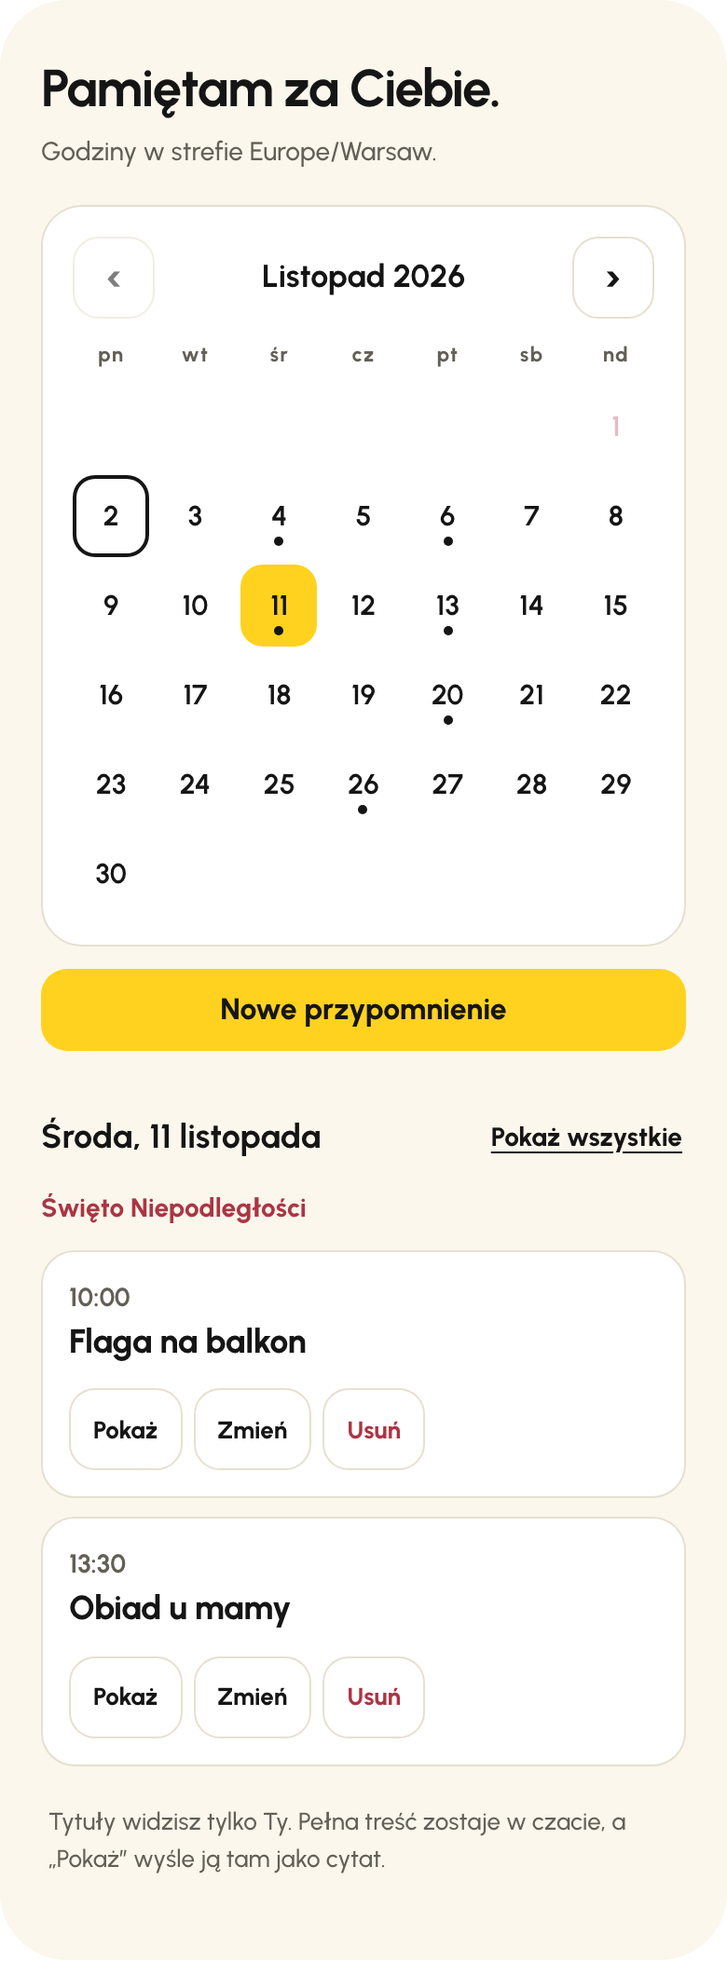
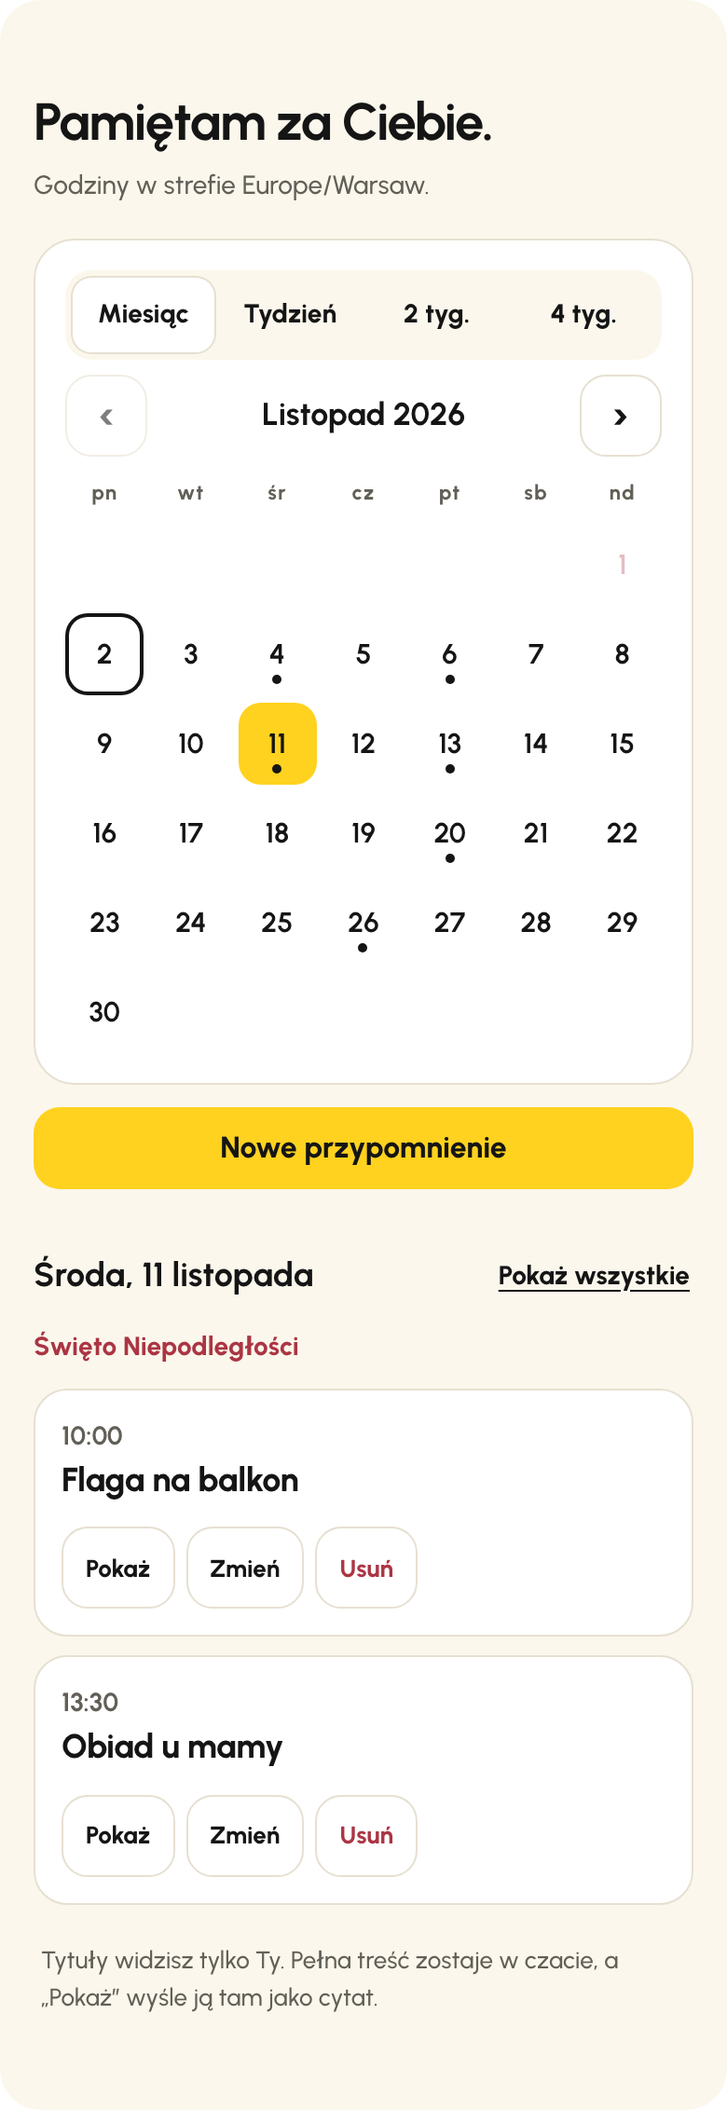
Add week and multi-week views to the calendar panel
The calendar panel now supports viewing reminders in weekly formats: 1, 2, or 4 weeks displayed vertically with corresponding reminder times and titles. The selected view is saved in local storage. Updates to the README and changelog reflect these new features, enhancing user experience by allowing easier navigation of reminders.

diff --git a/public/panel/panel.js b/public/panel/panel.js
@@ -7,6 +7,11 @@ let settingsDirty = false;
 /** Kalendarz: oglądany miesiąc („RRRR-MM”) i wybrany dzień („RRRR-MM-DD”) w strefie konta. */
 let month;
 let selectedDay = null;
+/** Widok kalendarza: 0 to siatka miesiąca, 1, 2 albo 4 to tyle tygodni z dniami pod sobą od poniedziałku „week”. Wybór pamięta to urządzenie. */
+let weeks = 0;
+let week;
+try { weeks = Number(localStorage.getItem("otto-calendar-weeks")) || 0; } catch { /* brak pamięci przeglądarki */ }
+if (![0, 1, 2, 4].includes(weeks)) weeks = 0;
 let currentView = "tasks";
 const DAY_MS = 86_400_000;
 // Natywny przycisk Telegrama i strzałka wstecz zastępują przyciski na stronie, gdy klient je ma.
@@ -104,6 +109,9 @@ const pad = (value) => String(value).padStart(2, "0");
 const capitalize = (text) => text.charAt(0).toUpperCase() + text.slice(1);
 const utcDay = (key) => { const [y, m, d] = key.split("-").map(Number); return Date.UTC(y, m - 1, d); };
 const addDays = (key, days) => new Date(utcDay(key) + days * DAY_MS).toISOString().slice(0, 10);
+const weekday = (key) => (new Date(utcDay(key)).getUTCDay() + 6) % 7;
+const monday = (key) => addDays(key, -weekday(key));
+const WEEKDAYS = ["pn", "wt", "śr", "cz", "pt", "sb", "nd"];
 // Daty kalendarza to dni w strefie konta, więc formatujemy je jako UTC: bez przesunięć strefy przeglądarki.
 const dayFormat = (options) => new Intl.DateTimeFormat("pl-PL", { ...options, timeZone: "UTC" });
 const today = () => localValue(Date.now(), state.tz).slice(0, 10);
@@ -135,41 +143,98 @@ function presetValue(preset) {
   return `${addDays(day, 7)}T${time}`;
 }
 
+/** „19–25 października” albo „26 paź–22 lis”, z rokiem, gdy zakres sięga innego roku. */
+function rangeLabel(from, to) {
+  const format = dayFormat({ day: "numeric", month: from.slice(0, 7) === to.slice(0, 7) ? "long" : "short", ...(to.slice(0, 4) !== today().slice(0, 4) ? { year: "numeric" } : {}) });
+  return format.formatRange ? format.formatRange(utcDay(from), utcDay(to)) : `${format.format(utcDay(from))} – ${format.format(utcDay(to))}`;
+}
+
 function renderCalendar() {
   const now = Date.now();
   const first = today();
   const limit = localValue(now + 400 * DAY_MS, state.tz).slice(0, 10);
-  if (!month || month < first.slice(0, 7)) month = first.slice(0, 7);
-  if (month > limit.slice(0, 7)) month = limit.slice(0, 7);
   const holidays = new Map(state.holidays.map((holiday) => [holiday.date, holiday.name]));
-  const counts = new Map();
+  const byDay = new Map();
   for (const reminder of state.reminders) {
-    const key = localValue(reminder.at, state.tz).slice(0, 10);
-    counts.set(key, (counts.get(key) ?? 0) + 1);
+    const local = localValue(reminder.at, state.tz);
+    const key = local.slice(0, 10);
+    if (!byDay.has(key)) byDay.set(key, []);
+    byDay.get(key).push({ time: `${Number(local.slice(11, 13))}:${local.slice(14, 16)}`, title: reminder.title });
   }
-  const [y, m] = month.split("-").map(Number);
-  $("month-label").textContent = capitalize(dayFormat({ month: "long", year: "numeric" }).format(Date.UTC(y, m - 1, 1)));
-  lock($("month-prev"), month <= first.slice(0, 7));
-  lock($("month-next"), month >= limit.slice(0, 7));
-  const blanks = (new Date(Date.UTC(y, m - 1, 1)).getUTCDay() + 6) % 7;
-  const cells = Array.from({ length: blanks }, () => Object.assign(document.createElement("span"), { className: "blank" }));
-  for (let d = 1; d <= new Date(Date.UTC(y, m, 0)).getUTCDate(); d++) {
-    const key = `${month}-${pad(d)}`;
-    const count = counts.get(key) ?? 0;
+  const dayButton = (key) => {
+    const count = byDay.get(key)?.length ?? 0;
     const day = document.createElement("button");
     day.type = "button";
     const holiday = holidays.get(key);
     day.className = `day${key === first ? " today" : ""}${count ? " has" : ""}${holiday ? " holiday" : ""}`;
-    day.textContent = d;
     day.setAttribute("aria-pressed", String(key === selectedDay));
     day.setAttribute("aria-label", `${dayLabel(key, true)}${holiday ? `, ${holiday}` : ""}: ${count ? `${count} ${reminderWord(count)}` : "bez przypomnień"}`);
     if (holiday) day.title = holiday;
     if (key === first) day.setAttribute("aria-current", "date");
     lock(day, key < first || key > limit);
     day.addEventListener("click", () => pickDay(key));
+    return day;
+  };
+  $("calendar").classList.toggle("weeks", weeks > 0);
+  $("month-grid").hidden = $("calendar").querySelector(".weekdays").hidden = weeks > 0;
+  $("week-list").hidden = !weeks;
+  document.querySelectorAll(".spans button").forEach((choice) => choice.setAttribute("aria-pressed", String(Number(choice.dataset.weeks) === weeks)));
+  const unit = weeks === 1 ? ["Poprzedni tydzień", "Następny tydzień"] : weeks ? ["Poprzednie tygodnie", "Następne tygodnie"] : ["Poprzedni miesiąc", "Następny miesiąc"];
+  for (const [id, label] of [["month-prev", unit[0]], ["month-next", unit[1]]]) { $(id).setAttribute("aria-label", label); $(id).title = label; }
+  if (weeks) {
+    // Dni pod sobą: wiersz na dzień, z godzinami (i tytułami) zamiast kropki, bo jest na nie miejsce.
+    if (!week || week < monday(first)) week = monday(first);
+    if (week > monday(limit)) week = monday(limit);
+    $("month-label").textContent = rangeLabel(week, addDays(week, weeks * 7 - 1));
+    lock($("month-prev"), week <= monday(first));
+    lock($("month-next"), addDays(week, weeks * 7) > limit);
+    $("week-list").dataset.weeks = weeks;
+    $("week-list").replaceChildren(...Array.from({ length: weeks * 7 }, (_, index) => {
+      const key = addDays(week, index);
+      const day = dayButton(key);
+      const holiday = holidays.get(key);
+      day.className += `${weekday(key) > 4 ? " weekend" : ""} row`;
+      const date = Object.assign(document.createElement("span"), { className: "date" });
+      date.append(Object.assign(document.createElement("small"), { textContent: WEEKDAYS[weekday(key)] }), Object.assign(document.createElement("b"), { textContent: Number(key.slice(8)) }));
+      if (key.endsWith("-01")) date.append(Object.assign(document.createElement("small"), { textContent: dayFormat({ month: "short" }).format(utcDay(key)) }));
+      const events = Object.assign(document.createElement("span"), { className: "events" });
+      for (const item of byDay.get(key) ?? []) {
+        const event = Object.assign(document.createElement("span"), { className: "event" });
+        event.append(Object.assign(document.createElement("b"), { textContent: item.time }), item.title ? ` ${item.title}` : "");
+        events.append(event);
+      }
+      // Święto na końcu, żeby w wąskim wierszu nie zasłoniło godzin. W widoku tygodnia CSS przenosi je na górę.
+      if (holiday) events.append(Object.assign(document.createElement("span"), { className: "holiday-name", textContent: holiday }));
+      day.append(date, events);
+      return day;
+    }));
+    return;
+  }
+  if (!month || month < first.slice(0, 7)) month = first.slice(0, 7);
+  if (month > limit.slice(0, 7)) month = limit.slice(0, 7);
+  const [y, m] = month.split("-").map(Number);
+  $("month-label").textContent = capitalize(dayFormat({ month: "long", year: "numeric" }).format(Date.UTC(y, m - 1, 1)));
+  lock($("month-prev"), month <= first.slice(0, 7));
+  lock($("month-next"), month >= limit.slice(0, 7));
+  const blanks = weekday(`${month}-01`);
+  const cells = Array.from({ length: blanks }, () => Object.assign(document.createElement("span"), { className: "blank" }));
+  for (let d = 1; d <= new Date(Date.UTC(y, m, 0)).getUTCDate(); d++) {
+    const day = dayButton(`${month}-${pad(d)}`);
+    day.textContent = d;
     cells.push(day);
   }
   $("month-grid").replaceChildren(...cells);
+}
+
+/** Zmiana widoku zostaje przy wybranym dniu albo oglądanym okresie. Tygodnie przewijają się na górę ekranu, żeby było widać cały zakres. */
+function setWeeks(value) {
+  if (value) week = monday(selectedDay ?? (weeks ? week : month > today().slice(0, 7) ? `${month}-01` : today()));
+  else month = (selectedDay ?? week ?? today()).slice(0, 7);
+  weeks = value;
+  try { localStorage.setItem("otto-calendar-weeks", String(value)); } catch { /* brak pamięci przeglądarki */ }
+  tg.HapticFeedback?.selectionChanged();
+  renderCalendar();
+  if (value) $("calendar").scrollIntoView({ block: "start", behavior: matchMedia("(prefers-reduced-motion: reduce)").matches ? "auto" : "smooth" });
 }
 
 /** Dzień z kalendarza filtruje listę. Drugie kliknięcie wraca do wszystkich. */
@@ -296,6 +361,8 @@ function view(name, focus = false) {
     if (selected && focus) tab.focus();
   });
   currentView = name;
+  // Widok tygodni ma zająć cały ekran, więc po kliknięciu zakładki kalendarz staje na górze.
+  if (name === "reminders" && weeks && state && !focus) $("calendar").scrollIntoView({ block: "start" });
   syncButtons();
 }
 
@@ -319,8 +386,9 @@ $("reminder-form").addEventListener("submit", async (event) => {
     $("reminder-dialog").close();
   }
 });
-$("month-prev").addEventListener("click", () => { month = addDays(`${month}-01`, -1).slice(0, 7); renderCalendar(); });
-$("month-next").addEventListener("click", () => { month = addDays(`${month}-28`, 7).slice(0, 7); renderCalendar(); });
+$("month-prev").addEventListener("click", () => { if (weeks) week = addDays(week, -7 * weeks); else month = addDays(`${month}-01`, -1).slice(0, 7); renderCalendar(); });
+$("month-next").addEventListener("click", () => { if (weeks) week = addDays(week, 7 * weeks); else month = addDays(`${month}-28`, 7).slice(0, 7); renderCalendar(); });
+document.querySelectorAll(".spans button").forEach((choice) => choice.addEventListener("click", () => setWeeks(Number(choice.dataset.weeks))));
 $("agenda-all").addEventListener("click", () => pickDay(selectedDay));
 // Tytuły włącza się w ustawieniach, gdzie jest napisane, co dokładnie zapisuję.
 $("titles-enable").addEventListener("click", () => {

diff --git a/public/panel/panel.css b/public/panel/panel.css
@@ -13,6 +13,13 @@ dialog{color:var(--ink);background:var(--paper);border:0;border-radius:var(--rad
 .weekdays,.month-grid{display:grid;grid-template-columns:repeat(7,minmax(0,1fr));gap:4px}.weekdays span{text-align:center;font-size:11px;font-weight:750;letter-spacing:.6px;color:var(--muted)}
 .day{position:relative;min-height:44px;padding:0;border-radius:12px;background:transparent;font-size:15px;font-weight:650;font-variant-numeric:tabular-nums}.day[data-off="1"]{opacity:.32}.day.today{box-shadow:inset 0 0 0 2px var(--ink)}.day.holiday{color:var(--danger)}.day[aria-pressed=true]{background:var(--accent);color:#151515;box-shadow:none}
 .day.has::after{content:"";position:absolute;left:50%;bottom:6px;width:5px;height:5px;margin-left:-2.5px;border-radius:50%;background:currentColor}.blank{min-height:44px}
+.spans{display:flex;gap:3px;padding:4px;border-radius:14px;background:var(--bg)}.spans button{flex:1;min-height:40px;padding:6px 4px;border-radius:10px;background:transparent;font-size:14px;white-space:nowrap}.spans button[aria-pressed=true]{background:var(--paper);box-shadow:0 0 0 1px var(--line)}
+.calendar.weeks{min-height:calc(var(--tg-viewport-stable-height,100dvh) - 24px);grid-template-rows:auto auto 1fr;scroll-margin-top:12px}
+.week-list{display:grid;gap:2px}.week-list[data-weeks="1"]{grid-template-rows:repeat(7,minmax(48px,1fr))}.week-list[data-weeks="2"]{grid-template-rows:repeat(14,minmax(30px,1fr))}.week-list[data-weeks="4"]{grid-template-rows:repeat(28,minmax(20px,1fr));gap:1px}
+.row{--mark:var(--danger);--soft:var(--muted);display:flex;align-items:center;gap:10px;min-height:0;padding:0 10px;border-radius:10px;text-align:left;font-size:14px;font-weight:600;line-height:1.25;overflow:hidden;contain:size}.row.has::after{content:none}.row.weekend{background:var(--bg)}.row.holiday{color:var(--ink)}.row[aria-pressed=true]{background:var(--accent);color:#151515;--mark:#151515;--soft:#151515}
+.row .date{display:flex;align-items:baseline;gap:5px;width:74px;flex-shrink:0}.row .date small{width:18px;font-size:12px;font-weight:750;color:var(--soft)}.row .date b+small{width:auto}.row .date b{min-width:20px;font-size:16px;font-weight:800;font-variant-numeric:tabular-nums}.row.holiday .date b,.row .holiday-name{color:var(--mark)}
+.row .events{flex:1;min-width:0;overflow:hidden;white-space:nowrap;text-overflow:ellipsis;font-size:13px}.row .events>*+*::before{content:" · ";color:var(--soft)}.row .event b,.row .holiday-name{font-weight:800;font-variant-numeric:tabular-nums}
+.week-list[data-weeks="1"] .row{align-items:flex-start;padding:10px 12px}.week-list[data-weeks="1"] .events{display:grid;gap:3px;font-size:14px}.week-list[data-weeks="1"] .events>*{overflow:hidden;text-overflow:ellipsis}.week-list[data-weeks="1"] .events>*+*::before{content:none}.week-list[data-weeks="1"] .holiday-name{order:-1}.week-list[data-weeks="4"] .date b{font-size:14px}
 .agenda-heading{display:flex;align-items:center;justify-content:space-between;gap:12px;margin:24px 0 12px;min-height:44px}.agenda-heading h3{margin:0}
 .link-button{background:none;min-height:44px;padding:0 2px;color:inherit;font-size:14px;font-weight:750;text-decoration:underline;text-underline-offset:3px}
 .reminder-item .info p.time{font-size:22px;font-weight:800;letter-spacing:-.4px;font-variant-numeric:tabular-nums;line-height:1.2}
@@ -22,6 +29,6 @@ dialog{color:var(--ink);background:var(--paper);border:0;border-radius:var(--rad
 .reminder-item .info span.when{font-size:14px;font-weight:700}.reminder-item .info p.title{font-size:18px;font-weight:750;line-height:1.3;letter-spacing:-.2px}.reminder-item .info p.untitled{color:var(--muted);font-size:15px;font-weight:600}
 .holiday-note{margin:-6px 0 12px;color:var(--danger);font-size:14px;font-weight:750}.native .native-hide{display:none!important}
 .wide{width:100%;margin-top:12px}dialog{max-height:calc(100dvh - 32px);overflow:auto}dialog .feedback{margin:0;min-height:0}
-@media(max-width:360px){main{padding-left:12px;padding-right:12px}.masthead{gap:8px}.masthead img{width:48px;height:48px}.eyebrow{font-size:9px}.tabs button{font-size:12px}.input-row{flex-wrap:wrap}.input-row input{flex-basis:100%}.input-row>.primary{width:100%}}
+@media(max-width:360px){main{padding-left:12px;padding-right:12px}.masthead{gap:8px}.masthead img{width:48px;height:48px}.eyebrow{font-size:9px}.tabs button{font-size:12px}.spans button{font-size:13px}.input-row{flex-wrap:wrap}.input-row input{flex-basis:100%}.input-row>.primary{width:100%}}
 @media(max-width:360px){dialog .input-row{flex-direction:column-reverse;align-items:stretch}}
 @media(prefers-reduced-motion:no-preference){button{transition:background .15s,opacity .15s}button:active{transform:translateY(1px)}}

diff --git a/public/panel/index.html b/public/panel/index.html
@@ -42,7 +42,13 @@
       </section>
       <section id="reminders-view" role="tabpanel" aria-labelledby="tab-reminders" hidden>
         <div class="section-heading"><h2>Pamiętam za Ciebie.</h2><p class="timezone-note"></p></div>
-        <div class="card calendar">
+        <div id="calendar" class="card calendar">
+          <div class="spans" role="group" aria-label="Widok kalendarza">
+            <button type="button" data-weeks="0" aria-pressed="true">Miesiąc</button>
+            <button type="button" data-weeks="1" aria-pressed="false">Tydzień</button>
+            <button type="button" data-weeks="2" aria-pressed="false" title="2 tygodnie">2 tyg.</button>
+            <button type="button" data-weeks="4" aria-pressed="false" title="4 tygodnie">4 tyg.</button>
+          </div>
           <div class="month-bar">
             <button type="button" id="month-prev" class="icon-button" aria-label="Poprzedni miesiąc" title="Poprzedni miesiąc">‹</button>
             <h3 id="month-label" aria-live="polite"></h3>
@@ -50,6 +56,7 @@
           </div>
           <div class="weekdays" aria-hidden="true"><span>pn</span><span>wt</span><span>śr</span><span>cz</span><span>pt</span><span>sb</span><span>nd</span></div>
           <div id="month-grid" class="month-grid" role="group" aria-label="Dni miesiąca"></div>
+          <div id="week-list" class="week-list" role="group" aria-label="Dni tygodni" hidden></div>
         </div>
         <button type="button" id="reminder-new" class="primary wide native-hide">Nowe przypomnienie</button>
         <div class="agenda-heading"><h3 id="agenda-title">Wszystkie terminy</h3><button type="button" id="agenda-all" class="link-button" hidden>Pokaż wszystkie</button></div>

diff --git a/README.md b/README.md
@@ -123,10 +123,11 @@ Gdy używam AI, treść wiadomości (także zdjęć i głosówek) trafia do dost
 /zapomnij             usuwam Twoje dane
 ```
 
-Panel otwierasz przez `/panel` albo przycisk „Panel” obok pola wiadomości (ustawiany przez `/admin/setup`). Możesz dopisywać i odhaczać zadania, tworzyć przypomnienia, zmieniać ich terminy i je usuwać, a także ustawić imię, styl, to, do czego głównie używasz Otta, i strefę (panel podpowie strefę telefonu, gdy jest inna). Przypomnienia widać w kalendarzu miesiąca z polskimi świętami: kliknięty dzień pokazuje swoje terminy i podpowiada datę nowego przypomnienia, a „Za godzinę”, „Jutro 9:00” czy „Za tydzień” ustawiają termin jednym kliknięciem. W aplikacji Telegrama główna akcja jest na natywnym przycisku na dole okna. W ustawieniach włączysz plan dnia: o wybranej godzinie rano Otto napisze, o której są dziś przypomnienia i co masz na liście, a w pusty dzień nic nie wyśle. Treści zadań panel odczytuje z przypiętej wiadomości, a treści przypomnień pozostają w czacie: panel pokazuje daty, a „Pokaż” prosi Otta, żeby odpowiedział w czacie na oryginalną wiadomość. Jeśli chcesz widzieć, o czym są przypomnienia, włącz w ustawieniach panelu tytuły: przy nowych przypomnieniach zapiszę krótki, zaszyfrowany tytuł, np. „Faktura za prąd”, a wyłączenie go usuwa. Nowe przypomnienie z panelu najpierw wysyła swoją treść do czatu.
+Panel otwierasz przez `/panel` albo przycisk „Panel” obok pola wiadomości (ustawiany przez `/admin/setup`). Możesz dopisywać i odhaczać zadania, tworzyć przypomnienia, zmieniać ich terminy i je usuwać, a także ustawić imię, styl, to, do czego głównie używasz Otta, i strefę (panel podpowie strefę telefonu, gdy jest inna). Przypomnienia widać w kalendarzu miesiąca z polskimi świętami: kliknięty dzień pokazuje swoje terminy i podpowiada datę nowego przypomnienia, a „Za godzinę”, „Jutro 9:00” czy „Za tydzień” ustawiają termin jednym kliknięciem. Zamiast siatki miesiąca możesz wybrać tydzień, 2 albo 4 tygodnie: dni są wtedy pod sobą, z godzinami przypomnień, a cały zakres mieści się na jednym ekranie. W aplikacji Telegrama główna akcja jest na natywnym przycisku na dole okna. W ustawieniach włączysz plan dnia: o wybranej godzinie rano Otto napisze, o której są dziś przypomnienia i co masz na liście, a w pusty dzień nic nie wyśle. Treści zadań panel odczytuje z przypiętej wiadomości, a treści przypomnień pozostają w czacie: panel pokazuje daty, a „Pokaż” prosi Otta, żeby odpowiedział w czacie na oryginalną wiadomość. Jeśli chcesz widzieć, o czym są przypomnienia, włącz w ustawieniach panelu tytuły: przy nowych przypomnieniach zapiszę krótki, zaszyfrowany tytuł, np. „Faktura za prąd”, a wyłączenie go usuwa. Nowe przypomnienie z panelu najpierw wysyła swoją treść do czatu.
 
 <p align="center">
-  <img src="docs/readme/panel-kalendarz.png" width="40%" alt="Kalendarz w panelu Otta: listopad 2026 z kropkami w dniach z przypomnieniami, wybrana środa 11 listopada podpisana jako Święto Niepodległości i dwa przypomnienia tego dnia z tytułami, Flaga na balkon o 10:00 i Obiad u mamy o 13:30, z przyciskami Pokaż, Zmień i Usuń">
+  <img src="docs/readme/panel-kalendarz.png" width="40%" alt="Kalendarz w panelu Otta z przełącznikiem Miesiąc, Tydzień, 2 tyg. i 4 tyg.: listopad 2026 z kropkami w dniach z przypomnieniami, wybrana środa 11 listopada podpisana jako Święto Niepodległości i dwa przypomnienia tego dnia z tytułami, Flaga na balkon o 10:00 i Obiad u mamy o 13:30, z przyciskami Pokaż, Zmień i Usuń">
+  <img src="docs/readme/panel-tygodnie.png" width="40%" alt="Widok 2 tygodni w panelu Otta: dni od 2 do 15 listopada pod sobą, przy dniach godziny i tytuły przypomnień, np. 16:45 Odebrać garnitur i 9:00 Dentysta, a 11 listopada na czerwono jako święto">
 </p>
 
 Pod wyborem terminu i przypomnieniem jest także „Inny termin”: Otto otwiera odpowiedź, w której wpisujesz np. „w piątek po południu”, bez AI i bez komendy. Wybór jest ważny 15 minut i anulujesz go przez `/anuluj`. Gdy przygotowuję odpowiedź AI, w nagłówku czatu widać „pisze…”, które znika razem z odpowiedzią. Przyciski odhaczania są zielone, ustawiania przypomnienia niebieskie, a usuwania czerwone w klientach Telegrama, które obsługują kolory.

diff --git a/docs/techniczne.md b/docs/techniczne.md
@@ -117,6 +117,8 @@ RPC `Chat.panel` używa tej samej kolejki co webhook i alarm. Panel ma limit 30 
 
 Kalendarz liczy się w przeglądarce z tych samych danych co lista terminów, bez dodatkowych zapytań. Dni to daty w strefie konta (jak `localValue`), nie w strefie urządzenia, a siatkę i nagłówki liczy arytmetyka UTC, więc zmiana czasu ani strefa telefonu nie przesuwają przypomnień na sąsiedni dzień. Zakres kończy się po 400 dniach, tak jak walidacja terminu. Nowe przypomnienie dodaje się w oknie (`<dialog>`) otwieranym przyciskiem pod kalendarzem. Termin startowy to wybrany dzień o 9:00 (dziś: najbliższa pełna godzina), a bez wybranego dnia za godzinę. Szybkie terminy („Za godzinę”, „Dziś/Jutro 18:00”, „Jutro 9:00”, „Za tydzień”) tylko wypełniają pole daty, a zapis przechodzi przez zwykłe `reminderCreate`.
 
+Obok siatki miesiąca są widoki 1, 2 i 4 tygodni: wiersz na dzień od poniedziałku, z godzinami (i tytułami, gdy są włączone) z tych samych danych co siatka. Karta ma wtedy wysokość okna Telegrama (`--tg-viewport-stable-height`, poza Telegramem `100dvh`), a wiersze dzielą ją po równo. `contain: size` na wierszu nie pozwala, żeby dzień z wieloma przypomnieniami rozpychał pozostałe. Gdy ekran jest za niski na minimalne wiersze (w 4 tygodniach 20 px), karta rośnie i strona się przewija. Wybrany widok trzyma `localStorage` urządzenia (`otto-calendar-weeks`), nie konto, więc nie zmienia API panelu.
+
 Święta (`src/holidays.ts`): polskie dni wolne od pracy, ruchome liczone od Wielkanocy (algorytm Meeusa/Jonesa/Butchera), Wigilia od 2025 r. Panel dostaje je w odpowiedzi na 400 dni naprzód i oznacza na czerwono; nazwa święta jest też pod nagłówkiem wybranego dnia i w planie dnia.
 
 Plan dnia: w ustawieniach panelu godzina (0–23, w interfejsie 6:00–10:00) albo wyłączony. Obiekt rozmowy trzyma go pod osobnym kluczem `digest` (`hour`, najbliższe `next` i adres panelu do przycisku, bo alarm nie zna adresu z żądania). Obiekt ma jeden alarm, więc `rearm` ustawia go na wcześniejszy z terminów: najbliższe przypomnienie albo plan dnia. Zmiana strefy (panel, `/strefa`, przyciski strefy) przelicza `next`. Alarm wysyła plan przed przypomnieniami z tej samej minuty: godziny dzisiejszych przypomnień (z tytułami, jeśli ktoś je włączył), do trzech pierwszych pozycji listy i święto. Pusty dzień bez święta: nic nie wysyła. Plan spóźniony o ponad 3 godziny przepada, a następny jest liczony od nowa. `/zapomnij` usuwa go razem z resztą danych.

diff --git a/CHANGELOG.md b/CHANGELOG.md
@@ -2,6 +2,11 @@
 
 Historia zmian w projekcie. Daty odpowiadają zmianom w repozytorium; sekcja „Niewydane” czeka na wdrożenie bota.
 
+## Niewydane
+
+### Nowości
+- Widok dni w kalendarzu panelu: oprócz miesiąca wybierzesz tydzień, 2 albo 4 tygodnie z dniami pod sobą. Przy każdym dniu widać godziny przypomnień (i tytuły, jeśli je włączysz), a cały zakres mieści się na jednym ekranie. Panel zapamięta wybrany widok.
+
 ## 2026-10-13
 
 ### Nowości
